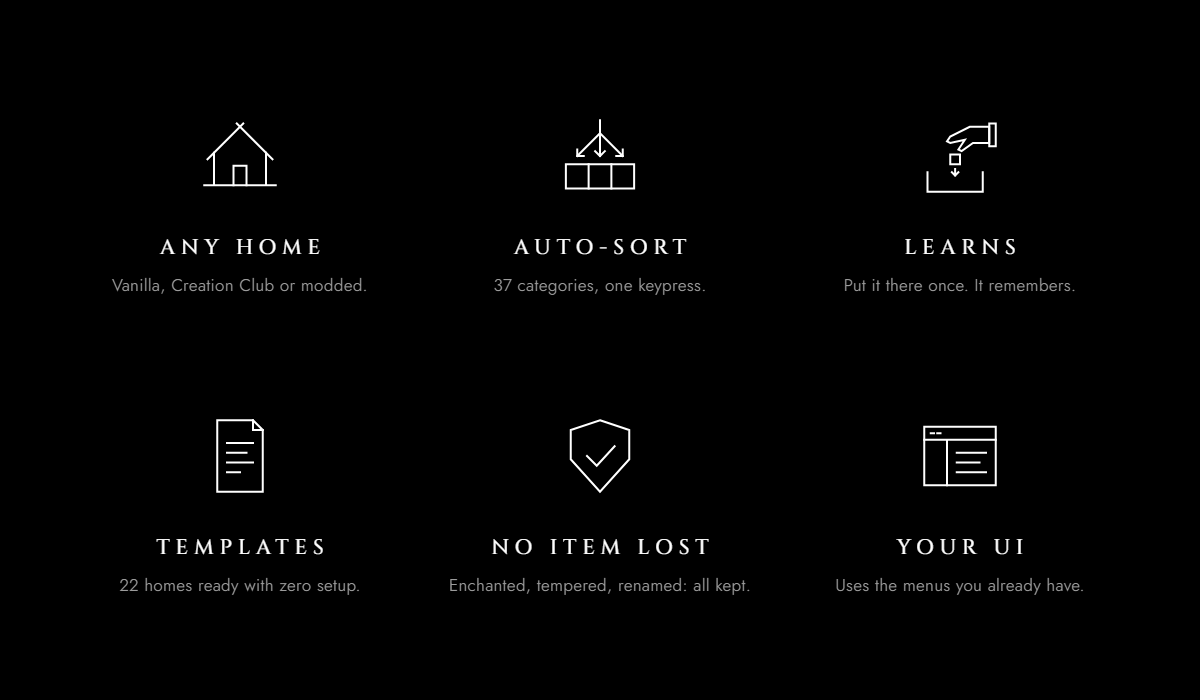
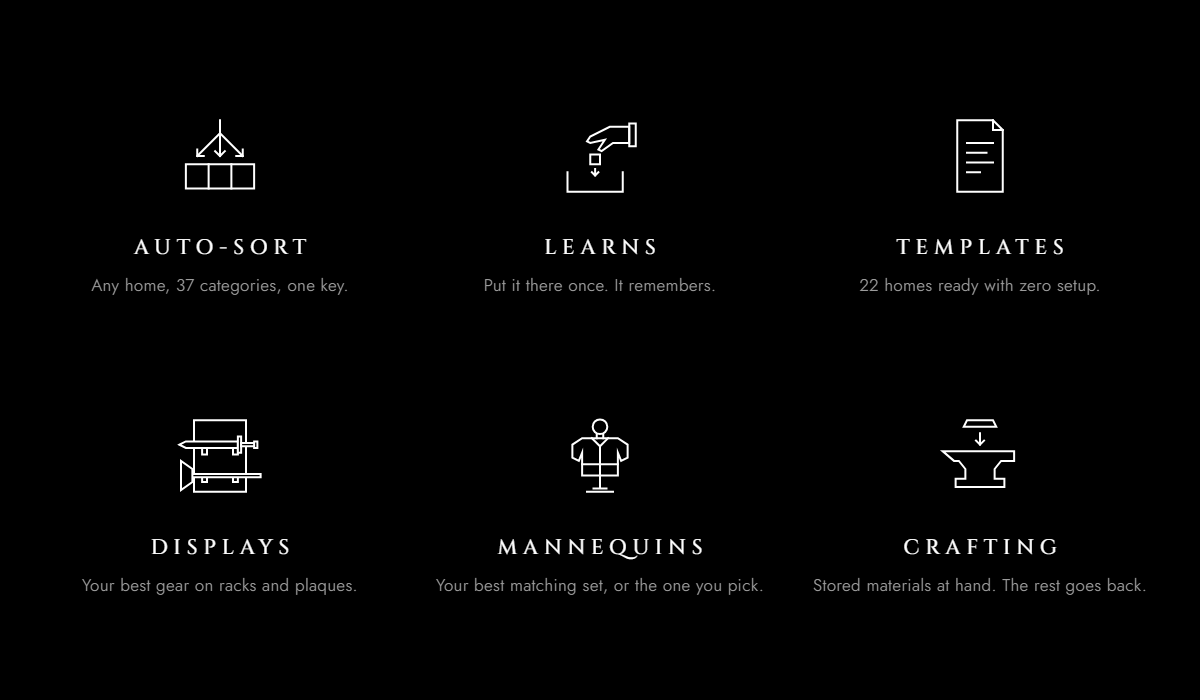
Press kit: features slide shows displays, mannequins and crafting
The features card and gallery image now lead with the most distinctive
features: auto-sort, learning, templates, displays, mannequins and
materials at the workbench (new icons). The Nexus description and the
templates article mention displays in glass cases, mannequin sets,
workbench materials, learned categories and Remove.

diff --git a/presskit/src/features.html b/presskit/src/features.html
@@ -5,7 +5,7 @@
 <style>
   body { display: flex; align-items: center; justify-content: center; }
   .grid {
-    display: grid; grid-template-columns: repeat(3, 360px); grid-template-rows: repeat(2, 300px);
+    display: grid; grid-template-columns: repeat(3, 380px); grid-template-rows: repeat(2, 300px);
   }
   .cell {
     display: flex; flex-direction: column; align-items: center; justify-content: center;
@@ -19,12 +19,12 @@
 <div class="grid" id="g"></div>
 <script>
   var F = [
-    ["any_home", "Any home", "Vanilla, Creation Club or modded."],
-    ["auto_sort", "Auto-sort", "37 categories, one keypress."],
+    ["auto_sort", "Auto-sort", "Any home, 37 categories, one key."],
     ["learns", "Learns", "Put it there once. It remembers."],
     ["templates", "Templates", "22 homes ready with zero setup."],
-    ["safe", "No item lost", "Enchanted, tempered, renamed: all kept."],
-    ["menu", "Your UI", "Uses the menus you already have."]
+    ["displays", "Displays", "Your best gear on racks and plaques."],
+    ["mannequin", "Mannequins", "Your best matching set, or the one you pick."],
+    ["workbench", "Crafting", "Stored materials at hand. The rest goes back."]
   ];
   document.getElementById("g").innerHTML = F.map(function (f) {
     return '<div class="cell">' + icon(f[0], 104, 2) + '<h2 class="title">' + f[1] +

diff --git a/presskit/src/render.py b/presskit/src/render.py
@@ -64,7 +64,8 @@ SECTIONS = [
     "changelog",
     "support",
 ]
-ICONS = ["any_home", "auto_sort", "templates", "learns", "safe", "menu", "vr", "export", "hotkey"]
+ICONS = ["any_home", "auto_sort", "templates", "learns", "safe", "menu", "vr", "export", "hotkey",
+         "displays", "mannequin", "workbench"]
 
 
 def frame(w):

diff --git a/presskit/README.md b/presskit/README.md
@@ -90,7 +90,8 @@ hard black box. `frame()` in `render.py` sets this up; any page renders as a car
   <img src="nexus/icon-templates-256.png" width="96"> <img src="nexus/icon-learns-256.png" width="96">
   <img src="nexus/icon-safe-256.png" width="96"> <img src="nexus/icon-menu-256.png" width="96">
   <img src="nexus/icon-vr-256.png" width="96"> <img src="nexus/icon-export-256.png" width="96">
-  <img src="nexus/icon-hotkey-256.png" width="96">
+  <img src="nexus/icon-hotkey-256.png" width="96"> <img src="nexus/icon-displays-256.png" width="96">
+  <img src="nexus/icon-mannequin-256.png" width="96"> <img src="nexus/icon-workbench-256.png" width="96">
 </p>
 
 ## Logo files
